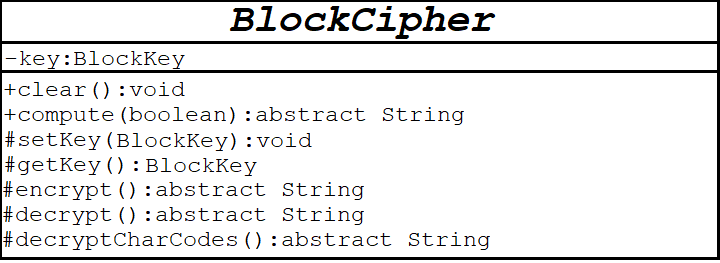
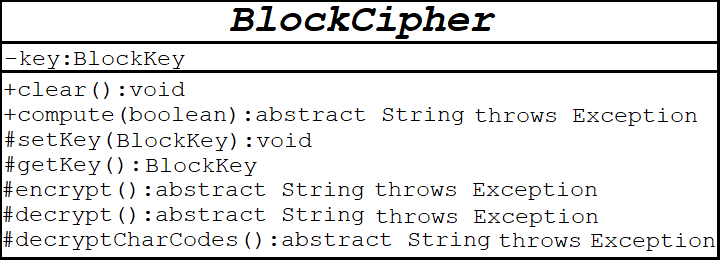
Updated some diagram images to include thrown Exceptions, and created some Java classes.

Changed region(s): [[0.0, 0.0, 1.0, 1.0]]

diff --git a/Encryptor Decryptor File Encryption/src/Encryptor Decryptor File Ecryption/CipherPackage/InvalidCipherTextException.java b/Encryptor Decryptor File Encryption/src/Encryptor Decryptor File Ecryption/CipherPackage/InvalidCipherTextException.java
@@ -1,0 +1,62 @@
+/**
+ * 
+ */
+package CipherPackage;
+
+/**
+ * @author Amol Soneji
+ *
+ */
+public class InvalidCipherTextException extends Exception 
+{
+
+	/**
+	 * 
+	 */
+	public InvalidCipherTextException() 
+	{
+		// TODO Auto-generated constructor stub
+	}
+
+	/**
+	 * @param message
+	 */
+	public InvalidCipherTextException(String message) 
+	{
+		super(message);
+		// TODO Auto-generated constructor stub
+	}
+
+	/**
+	 * @param cause
+	 */
+	public InvalidCipherTextException(Throwable cause) 
+	{
+		super(cause);
+		// TODO Auto-generated constructor stub
+	}
+
+	/**
+	 * @param message
+	 * @param cause
+	 */
+	public InvalidCipherTextException(String message, Throwable cause) 
+	{
+		super(message, cause);
+		// TODO Auto-generated constructor stub
+	}
+
+	/**
+	 * @param message
+	 * @param cause
+	 * @param enableSuppression
+	 * @param writableStackTrace
+	 */
+	public InvalidCipherTextException(String message, Throwable cause, boolean enableSuppression,
+			boolean writableStackTrace) 
+	{
+		super(message, cause, enableSuppression, writableStackTrace);
+		// TODO Auto-generated constructor stub
+	}
+
+}

diff --git a/Encryptor Decryptor File Encryption/src/Encryptor Decryptor File Ecryption/CipherPackage/TranspositionCipher.java b/Encryptor Decryptor File Encryption/src/Encryptor Decryptor File Ecryption/CipherPackage/TranspositionCipher.java
@@ -22,12 +22,12 @@ public abstract class TranspositionCipher
 		// TODO Auto-generated constructor stub
 	}
 	
-	public void clear()
+	public void clear() 
 	{
 		key = null;
 	}
 	
-	public abstract String compute(boolean resultType);
+	public abstract String compute(boolean resultType) throws Exception;
 	
 	protected void setKey(TranspositionKey key)
 	{

diff --git a/Encryptor Decryptor File Encryption/src/Encryptor Decryptor File Ecryption/CipherPackage/RailFenceCipher.java b/Encryptor Decryptor File Encryption/src/Encryptor Decryptor File Ecryption/CipherPackage/RailFenceCipher.java
@@ -53,7 +53,7 @@ public class RailFenceCipher extends TranspositionCipher
 	}
 
 	@Override
-	public String compute(boolean resultType)
+	public String compute(boolean resultType) throws InvalidCipherTextException
 	{
 		// TODO Auto-generated method stub
 		return null;
